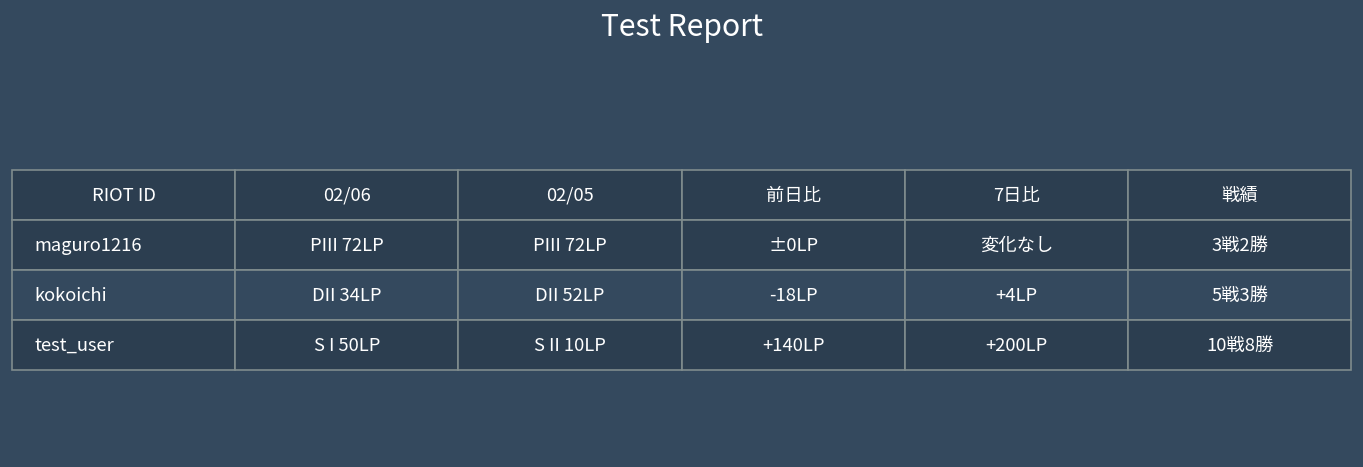
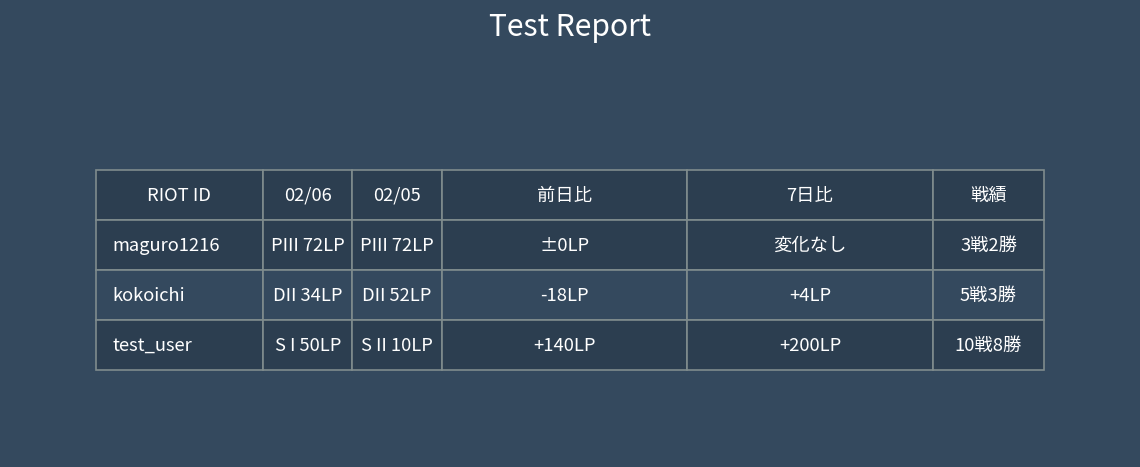
レポートの見栄え修正

diff --git a/src/cogs/scheduler.py b/src/cogs/scheduler.py
@@ -606,16 +606,14 @@ class Scheduler(commands.Cog):
             
             vals.append(row)
 
-        # Build Table String manually for alignment
         import unicodedata
         def get_display_width(s):
-            """Calculate display width considering full-width characters."""
+            """Calculate display width considering full-width and ambiguous characters."""
             width = 0
             for char in str(s):
                 eaw = unicodedata.east_asian_width(char)
-                # 'W' (Wide) and 'F' (Fullwidth) are 2 cells
-                # 'A' (Ambiguous) symbols like ± or ⇒ are usually 1 cell in Discord code blocks
-                if eaw in ('W', 'F'):
+                # 'W' (Wide), 'F' (Fullwidth), and 'A' (Ambiguous) are usually 2 cells in Japanese environments
+                if eaw in ('W', 'F', 'A'):
                     width += 2
                 else:
                     width += 1
@@ -657,37 +655,60 @@ class Scheduler(commands.Cog):
         if not history:
             return f"**{rid}** の過去 {period_days} 日間のデータが見つかりませんでした。"
 
+        # Use helper for display width
+        import unicodedata
+        def get_display_width(s):
+            """Calculate display width considering full-width and ambiguous characters."""
+            width = 0
+            for char in str(s):
+                eaw = unicodedata.east_asian_width(char)
+                if eaw in ('W', 'F', 'A'):
+                    width += 2
+                else:
+                    width += 1
+            return width
+
+        def pad_string(s, width):
+            s_str = str(s)
+            current_w = get_display_width(s_str)
+            return s_str + (" " * max(0, width - current_w))
+
         lines = [f"**{rid}** のレポート (過去 {period_days} 日間)", "```"]
-        lines.append("日付  | ランク          | 前日比 | 戦績")
-        lines.append("------|-----------------|--------|---------------")
         
+        # Prepare rows to calculate max widths
+        header = ["日付", "ランク", "前日比", "戦績"]
+        rows = []
         # Sort history descending (latest first)
         history.sort(key=lambda x: x['fetch_date'], reverse=True)
         
         for i, h in enumerate(history):
             d_str = h['fetch_date'].strftime("%m/%d")
             r_str = rank_calculator.format_rank_display(h['tier'], h['rank'], h['lp'])
-            
             diff_str = "-"
             record_str = "-"
-            
-            # Record calculation
-            # We need the previous entry for diff and win/loss
-            # Since history is sorted by date, next item in the list is the previous day
             if i + 1 < len(history):
                 prev_h = history[i+1]
-                # Diff
                 diff_str = rank_calculator.calculate_diff_text(prev_h, h, include_prefix=False)
-                # Record
                 w = h['wins'] - prev_h['wins']
                 l = h['losses'] - prev_h['losses']
                 g = w + l
                 if g > 0:
                     rate = int((w / g) * 100)
                     record_str = f"{g}戦{w}勝({rate}%)"
-            
-            # Padding for alignment
-            lines.append(f"{d_str:5} | {r_str:15} | {diff_str:6} | {record_str}")
+            rows.append([d_str, r_str, diff_str, record_str])
+
+        # Calculate max widths
+        col_widths = [get_display_width(h) for h in header]
+        for row in rows:
+            for i, cell in enumerate(row):
+                col_widths[i] = max(col_widths[i], get_display_width(cell))
+
+        # Build lines
+        lines.append(" | ".join([pad_string(header[i], col_widths[i]) for i in range(len(header))]))
+        lines.append("-|-".join(["-" * w for w in col_widths]))
+        
+        for row in rows:
+            lines.append(" | ".join([pad_string(row[i], col_widths[i]) for i in range(len(row))]))
         
         lines.append("```")
         return "\n".join(lines)
@@ -715,6 +736,15 @@ class Scheduler(commands.Cog):
         
         headers = ["RIOT ID"] + [d.strftime("%m/%d") for d in shown_dates] + ["前日比", f"{period_days}日比", "戦績"]
         
+        # Calculate colWidths dynamically
+        # Riot ID (0) needs ~15%, Dates (1...N) need ~8%, Diff (N+1, N+2) need ~25%, Record need ~10%
+        num_middle_dates = len(shown_dates)
+        col_widths = [0.15] + [0.08] * num_middle_dates + [0.25, 0.25, 0.1]
+        # Total check: 0.15 + (0.08 * 3) + 0.25 + 0.25 + 0.1 = 0.99 (if 3 dates)
+        # If 5 dates: 0.15 + 0.40 + 0.50 + 0.1 = 1.15. Matplotlib handles scaling but better to stay near 1.0
+        total_relative = sum(col_widths)
+        col_widths = [w / total_relative for w in col_widths]
+
         table_data = []
         for rid, h_map in data_map.items():
             row = [rid.split('#')[0]] # Show only name to save space
@@ -755,7 +785,7 @@ class Scheduler(commands.Cog):
             table_data.append(row)
 
         from src.utils.graph_generator import generate_report_image
-        return generate_report_image(headers, table_data, f"Rank Report (Last {period_days} Days)")
+        return generate_report_image(headers, table_data, f"Rank Report (Last {period_days} Days)", col_widths=col_widths)
 
 async def setup(bot):
     await bot.add_cog(Scheduler(bot))

diff --git a/verify_reports_v2.py b/verify_reports_v2.py
@@ -1,0 +1,86 @@
+
+import asyncio
+import os
+import sys
+from datetime import date, timedelta
+import unicodedata
+
+# Adjust path to import from src
+sys.path.append(os.getcwd())
+
+from src.utils.graph_generator import generate_report_image
+from src.utils import rank_calculator
+
+def get_display_width(s):
+    width = 0
+    for char in str(s):
+        eaw = unicodedata.east_asian_width(char)
+        if eaw in ('W', 'F', 'A'):
+            width += 2
+        else:
+            width += 1
+    return width
+
+def pad_string(s, width):
+    s_str = str(s)
+    current_w = get_display_width(s_str)
+    return s_str + (" " * max(0, width - current_w))
+
+async def test_image_generation():
+    print("Testing refined image generation...")
+    headers = ["RIOT ID", "02/06", "02/05", "前日比", "7日比", "戦績"]
+    data = [
+        ["maguro1216", "PIII 72LP", "PIII 72LP", "Tier:変化なし LP:±0LP", "Tier:変化なし LP:±0LP", "-"],
+        ["kokoichi", "DI 8LP", "DII 52LP", "Tier DII⇒DI LP: +56LP", "Tier DII⇒DI LP: +78LP", "9戦4勝"],
+        ["ikebon", "SIV 99LP", "-", "-", "-", "-"]
+    ]
+    
+    # Calculate colWidths in the same way as scheduler.py
+    num_middle_dates = 2
+    col_widths = [0.15] + [0.08] * num_middle_dates + [0.25, 0.25, 0.1]
+    total_relative = sum(col_widths)
+    col_widths = [w / total_relative for w in col_widths]
+    
+    buf = generate_report_image(headers, data, "Refined Test Report", col_widths=col_widths)
+    if buf:
+        with open("test_report_refined.png", "wb") as f:
+            f.write(buf.getbuffer())
+        print("✅ Image generated: test_report_refined.png")
+    else:
+        print("❌ Image generation failed")
+
+def test_vertical_text_logic():
+    print("Testing refined vertical text logic (simulator)...")
+    history = [
+        {'fetch_date': date(2026, 2, 6), 'tier': 'PLATINUM', 'rank': 'III', 'lp': 72, 'wins': 100, 'losses': 50},
+        {'fetch_date': date(2026, 2, 5), 'tier': 'PLATINUM', 'rank': 'III', 'lp': 72, 'wins': 100, 'losses': 50},
+        {'fetch_date': date(2026, 2, 4), 'tier': 'PLATINUM', 'rank': 'III', 'lp': 72, 'wins': 100, 'losses': 50},
+    ]
+    
+    rid = "maguro1216#JP1"
+    rows = []
+    # Simplified simulation of the loop in scheduler.py
+    for i, h in enumerate(history):
+        d_str = h['fetch_date'].strftime("%m/%d")
+        r_str = f"PIII 72LP"
+        diff_str = "Tier:変化なし LP:±0LP" if i < 2 else "-"
+        record_str = "-"
+        rows.append([d_str, r_str, diff_str, record_str])
+
+    header = ["日付", "ランク", "前日比", "戦績"]
+    col_widths = [get_display_width(h) for h in header]
+    for row in rows:
+        for i, cell in enumerate(row):
+            col_widths[i] = max(col_widths[i], get_display_width(cell))
+
+    lines = [" | ".join([pad_string(header[i], col_widths[i]) for i in range(len(header))])]
+    lines.append("-|-".join(["-" * w for w in col_widths]))
+    for row in rows:
+        lines.append(" | ".join([pad_string(row[i], col_widths[i]) for i in range(len(row))]))
+    
+    print("✅ Refined Vertical Text Mockup:")
+    print("\n".join(lines))
+
+if __name__ == "__main__":
+    asyncio.run(test_image_generation())
+    test_vertical_text_logic()

diff --git a/src/utils/graph_generator.py b/src/utils/graph_generator.py
@@ -177,7 +177,7 @@ def generate_rank_graph(user_data: Dict[str, List[Dict[str, Any]]], period_type:
     plt.close()
     return buf
 
-def generate_report_image(headers: List[str], data: List[List[Any]], title: str) -> io.BytesIO:
+def generate_report_image(headers: List[str], data: List[List[Any]], title: str, col_widths: List[float] = None) -> io.BytesIO:
     """
     Generate a clean table image using matplotlib.
     """
@@ -191,7 +191,7 @@ def generate_report_image(headers: List[str], data: List[List[Any]], title: str)
     
     # Calculate column widths (simple estimate)
     # Riot ID column is usually longest
-    fig, ax = plt.subplots(figsize=(12, max(4, fig_height)))
+    fig, ax = plt.subplots(figsize=(14, max(4, fig_height)))
     ax.axis('off')
     plt.gcf().set_facecolor('#34495e')
 
@@ -201,18 +201,23 @@ def generate_report_image(headers: List[str], data: List[List[Any]], title: str)
     text_color = 'white'
 
     # Create table
+    # We estimate column widths based on headers and generic needs if not provided
+    if col_widths is None:
+        col_widths = [0.15] + [0.08] * (len(headers) - 4) + [0.22, 0.22, 0.1]
+    
     table = ax.table(
         cellText=data,
         colLabels=headers,
         loc='center',
         cellLoc='center',
-        colColours=[header_color] * len(headers)
+        colColours=[header_color] * len(headers),
+        colWidths=col_widths
     )
 
     # Style table
     table.auto_set_font_size(False)
     table.set_fontsize(11)
-    table.scale(1.2, 2.5) # Scale for readability
+    table.scale(1.0, 2.5) # Scale height for readability
 
     for (row, col), cell in table.get_celld().items():
         cell.set_edgecolor('#7f8c8d')
@@ -224,6 +229,8 @@ def generate_report_image(headers: List[str], data: List[List[Any]], title: str)
             # Make Riot ID (column 0) left-aligned for better readability
             if col == 0:
                 cell.get_text().set_horizontalalignment('left')
+                # Add a small offset for padding
+                cell.get_text().set_position((0.05, 0.5))
 
     plt.title(title, fontsize=18, color=text_color, pad=30, weight='bold')
 
